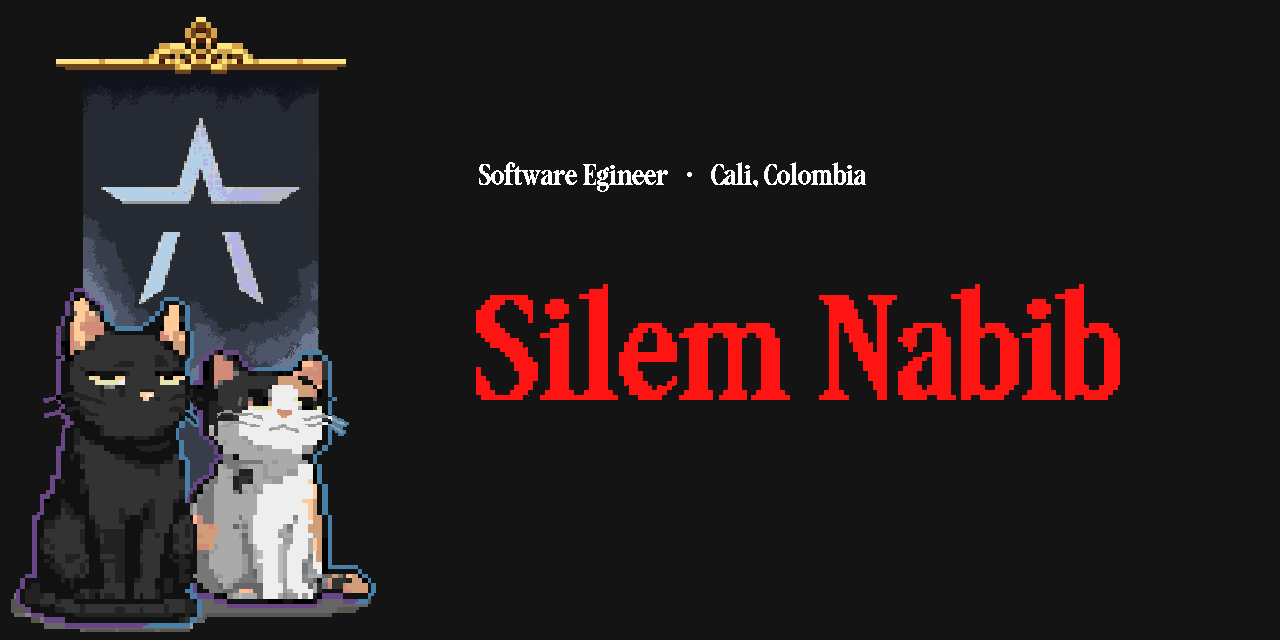
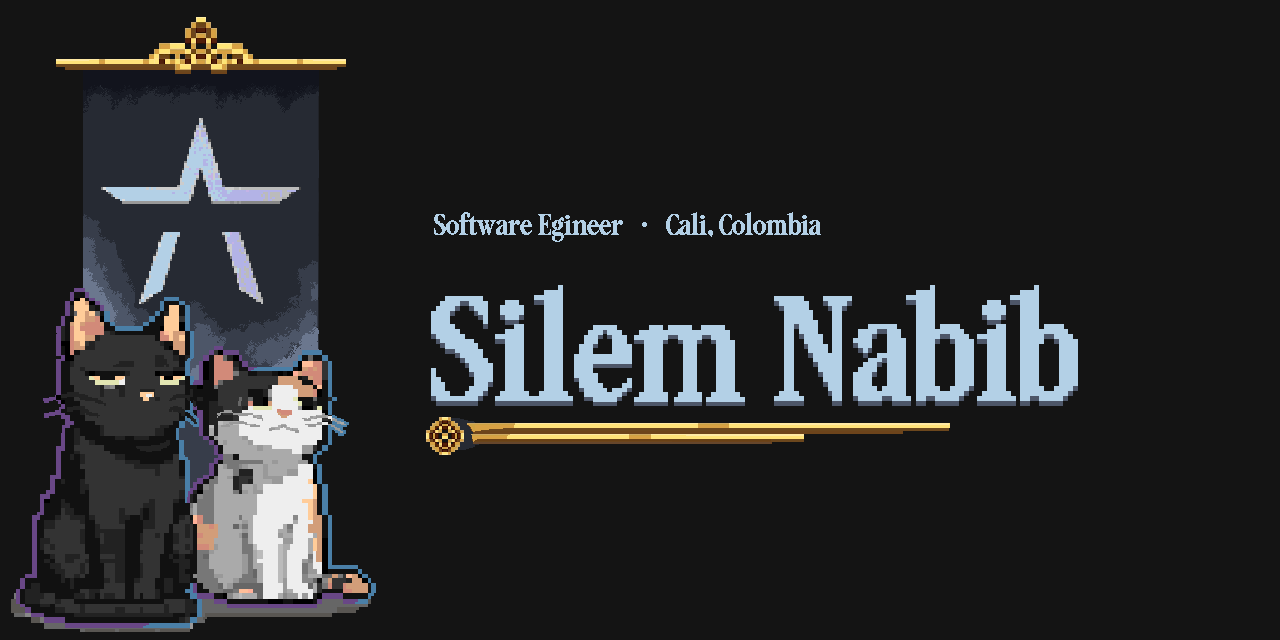
feat: change hero

Changed region(s): [[0.3125, 0.4375, 0.875, 0.7188], [0.375, 0.25, 0.6875, 0.3125], [0.3438, 0.3438, 0.6562, 0.375]]

diff --git a/README.md b/README.md
@@ -1,27 +1,6 @@
 ###
 <p align="center">
-    <a href="https://anuraghazra.github.io">
+    <a href="https://silemnabib.me">
         <img width="100%" alt="Hello, I'm Silem. I craft my reality through code!" src="./assets/hero.webp" />
     </a>
-    <h1 align="center">A Software Engineer Intern</h1>
 </p>
-
-<br />
-
-###
-<picture>
-    <source 
-        media="(prefers-color-scheme: dark)"
-        srcset="https://raw.githubusercontent.com/SilemNabib/SilemNabib/output/github-snake-dark.svg"
-    />
-    <source
-        media="(prefers-color-scheme: light)"
-        srcset="https://raw.githubusercontent.com/SilemNabib/SilemNabib/output/github-snake.svg"
-    />
-    <img
-        alt="github-contribution-snake-animation"
-        src="https://raw.githubusercontent.com/SilemNabib/SilemNabib/output/github-snake.svg"
-    />    
-</picture>
-
-###
